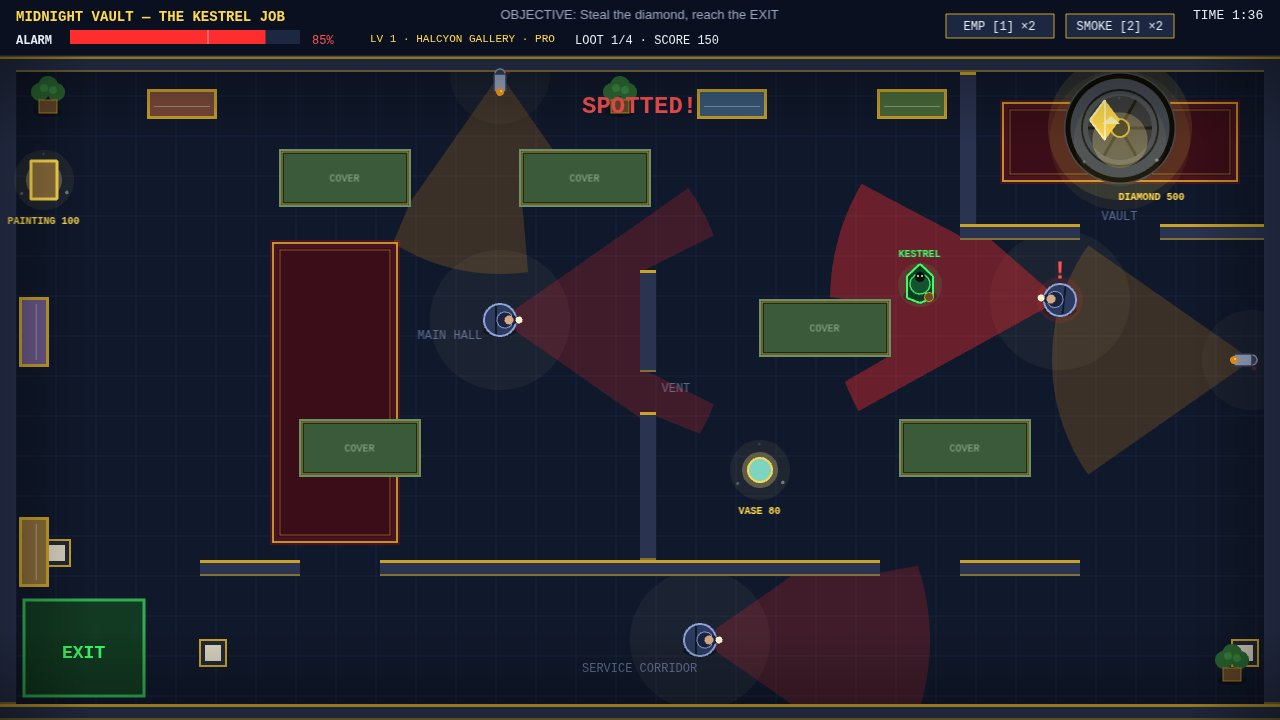
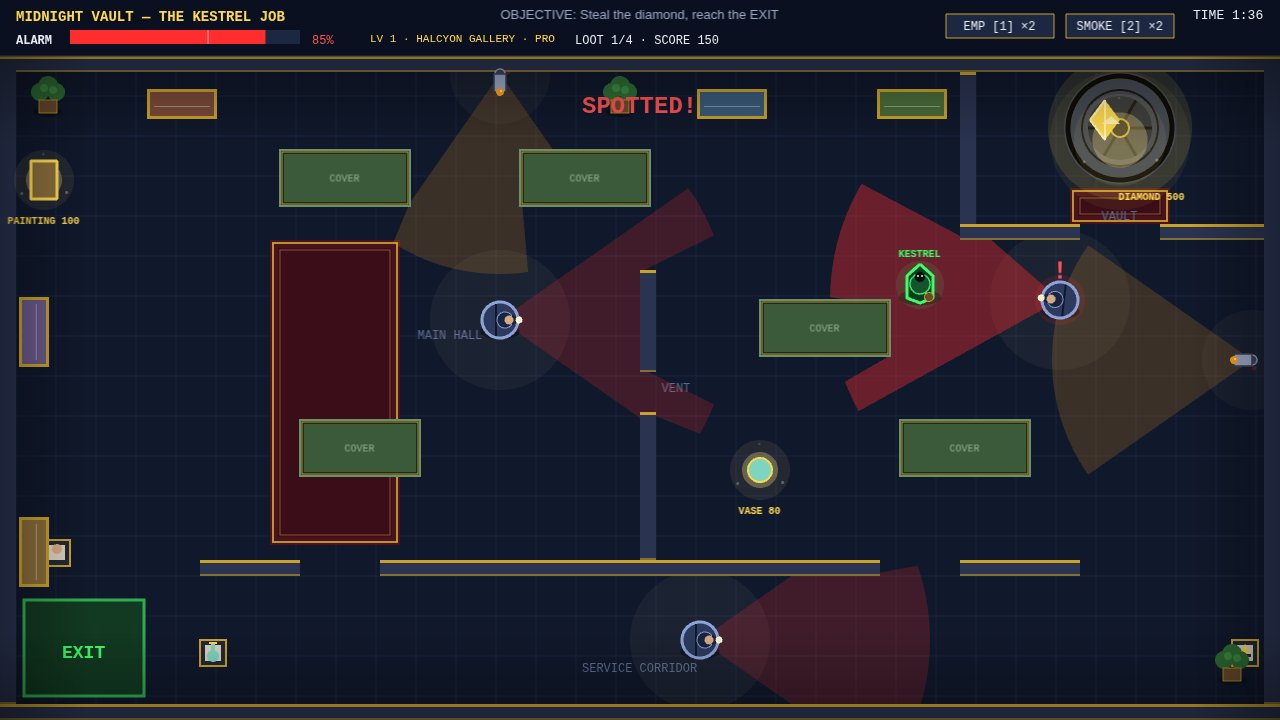
Midnight Vault: bolder figures for thumbnails, dressed pedestals, getaway label fix
- Thief radius 17->19 and guard radius 16->18 with thicker outlines and
  softer shadows, so both read clearly in the 1280x720 thumbnails
- Pedestals now display a vase, a marble bust and a golden idol
- Getaway pose moves Kestrel to (84,614) so the figure no longer covers
  the EXIT label
- Vault carpet becomes a runner in front of the safe door (was hidden
  under it); diamond label stays readable above it
- test-play bound for the right wall updated to 1264-19

Tests: headless gameplay 20/20 PASS (vent still passable at r19),
main.ts deterministic 2x byte-identical, kit check 4 passed / 1 failed
(transcripts_present, expected pre-bundle) / 15 skipped.

diff --git a/game/src/scene.js b/game/src/scene.js
@@ -174,6 +174,29 @@ export class HeistScene extends Phaser.Scene {
       decor.fillRect(p.x + 5, p.y + 5, p.w - 10, p.h - 10);
       decor.lineStyle(2, COLORS.wallTrim, 1);
       decor.strokeRect(p.x, p.y, p.w, p.h);
+      // Dressed pedestal tops (decor only, never loot): a teal vase, a
+      // marble bust, a tiny golden idol — the gallery reads lived-in.
+      const cx = p.x + p.w / 2;
+      const cy = p.y + p.h / 2;
+      if (p.top === 'vase') {
+        decor.fillStyle(0x7fd4c1, 1);
+        decor.fillCircle(cx, cy + 3, 6);
+        decor.fillRect(cx - 2, cy - 9, 4, 6);
+        decor.fillStyle(COLORS.lootGold, 1);
+        decor.fillRect(cx - 4, cy - 11, 8, 2);
+      } else if (p.top === 'bust') {
+        decor.fillStyle(COLORS.guardSkin, 1);
+        decor.fillCircle(cx, cy - 4, 5);
+        decor.fillStyle(0xd8d2c0, 1);
+        decor.fillRect(cx - 7, cy + 2, 14, 5);
+        decor.fillStyle(COLORS.vaultDark, 1);
+        decor.fillRect(cx - 8, cy + 7, 16, 3);
+      } else if (p.top === 'idol') {
+        decor.fillStyle(COLORS.lootGold, 1);
+        decor.fillTriangle(cx, cy - 9, cx + 5, cy + 1, cx - 5, cy + 1);
+        decor.fillStyle(COLORS.vaultDark, 1);
+        decor.fillRect(cx - 6, cy + 1, 12, 3);
+      }
     }
     for (const p of LEVEL.plants) {
       decor.fillStyle(0x000000, 0.3);
@@ -347,7 +370,7 @@ export class HeistScene extends Phaser.Scene {
     g.clear();
     const r = THIEF_RADIUS;
     g.fillStyle(0x000000, 0.35);
-    g.fillEllipse(x, y + r * 0.65, r * 2, r * 0.8);
+    g.fillEllipse(x, y + r * 0.65, r * 2.2, r * 0.85);
     g.fillStyle(COLORS.thief, 0.1);
     g.fillCircle(x, y, r + 5);
     const p = (lx, ly) => HeistScene.rotPoint(x, y, lx, ly, facing);
@@ -356,7 +379,7 @@ export class HeistScene extends Phaser.Scene {
       .map(([lx, ly]) => p(lx, ly));
     g.fillStyle(COLORS.thiefCloak, 1);
     g.fillPoints(cloak, true);
-    g.lineStyle(2, COLORS.thief, 1);
+    g.lineStyle(3, COLORS.thief, 1);
     g.strokePoints(cloak, true);
     // Hood + shadowed face + eyes.
     const hood = p(1, 0);
@@ -384,7 +407,7 @@ export class HeistScene extends Phaser.Scene {
     const g = this.guardG;
     const r = GUARD_RADIUS;
     g.fillStyle(0x000000, 0.35);
-    g.fillEllipse(x, y + r * 0.65, r * 2.1, r * 0.85);
+    g.fillEllipse(x, y + r * 0.65, r * 2.2, r * 0.85);
     if (seeing) {
       g.fillStyle(COLORS.coneGuard, 0.12);
       g.fillCircle(x, y, r + 7);
@@ -393,7 +416,7 @@ export class HeistScene extends Phaser.Scene {
     // Navy uniform body + belt.
     g.fillStyle(COLORS.guardBody, 1);
     g.fillCircle(x, y, r);
-    g.lineStyle(2, COLORS.guardTrim, 1);
+    g.lineStyle(3, COLORS.guardTrim, 1);
     g.strokeCircle(x, y, r);
     const b1 = p(-4, -r + 2);
     const b2 = p(-4, r - 2);

diff --git a/game/src/levels.js b/game/src/levels.js
@@ -41,7 +41,7 @@ export const LEVEL = {
   // potted plants in the corners, and the vault's round steel door.
   carpets: [
     { x: 270, y: 240, w: 130, h: 305 }, // main-hall runner
-    { x: 1000, y: 100, w: 240, h: 84 }, // vault floor, under the diamond
+    { x: 1070, y: 188, w: 100, h: 36 }, // vault runner, in front of the door
   ],
   paintings: [
     { x: 150, y: 92, w: 64, h: 24, hue: 0x7a4a3a },
@@ -51,9 +51,9 @@ export const LEVEL = {
     { x: 22, y: 520, w: 24, h: 64, hue: 0x8a6d3b },
   ],
   pedestals: [
-    { x: 200, y: 640, w: 26, h: 26 },
-    { x: 44, y: 540, w: 26, h: 26 },
-    { x: 1232, y: 640, w: 26, h: 26 },
+    { x: 200, y: 640, w: 26, h: 26, top: 'vase' },
+    { x: 44, y: 540, w: 26, h: 26, top: 'bust' },
+    { x: 1232, y: 640, w: 26, h: 26, top: 'idol' },
   ],
   plants: [
     { x: 48, y: 100 },

diff --git a/game/src/shots.js b/game/src/shots.js
@@ -65,9 +65,9 @@ export function applyShot(name, scene) {
     scene.clock = 96;
   } else if (name === 'getaway') {
     // The job is done: diamond in hand, Kestrel on the EXIT, compact banner.
-    // Thief at (84, 640) so the KESTREL tag sits above the EXIT label instead
-    // of on top of it (v1's overlap).
-    scene.setThief(84, 640);
+    // Thief at (84, 614) so the figure (r19, spans y 595..633) never covers
+    // the EXIT label at (84, 652) — the KESTREL tag sits above it instead.
+    scene.setThief(84, 614);
     scene.setGuard(0, 500, 320);
     scene.setGuard(1, 1180, 480);
     scene.setGuard(2, 1000, 640);

diff --git a/game/src/config.js b/game/src/config.js
@@ -5,8 +5,8 @@ export const GAME_HEIGHT = 720;
 export const HUD_HEIGHT = 56;
 
 export const THIEF_SPEED = 180; // px per second on open floor
-export const THIEF_RADIUS = 17; // drawn hooded figure, bigger than v1
-export const GUARD_RADIUS = 16; // drawn uniformed figure
+export const THIEF_RADIUS = 19; // drawn hooded figure, bigger than v1
+export const GUARD_RADIUS = 18; // drawn uniformed figure
 export const GUARD_SPEED = 55; // patrol walk, px per second
 export const GUARD_RANGE = 230; // vision cone reach, px
 export const GUARD_FOV = (70 * Math.PI) / 180; // vision cone spread
